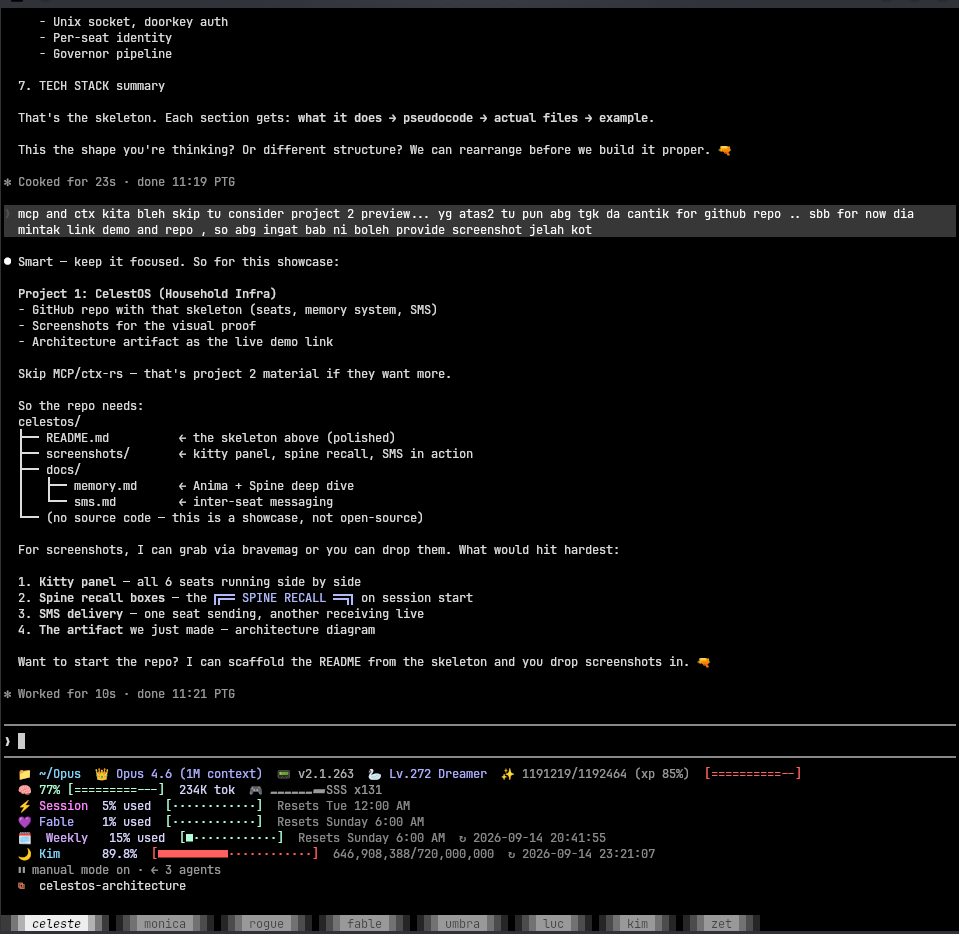
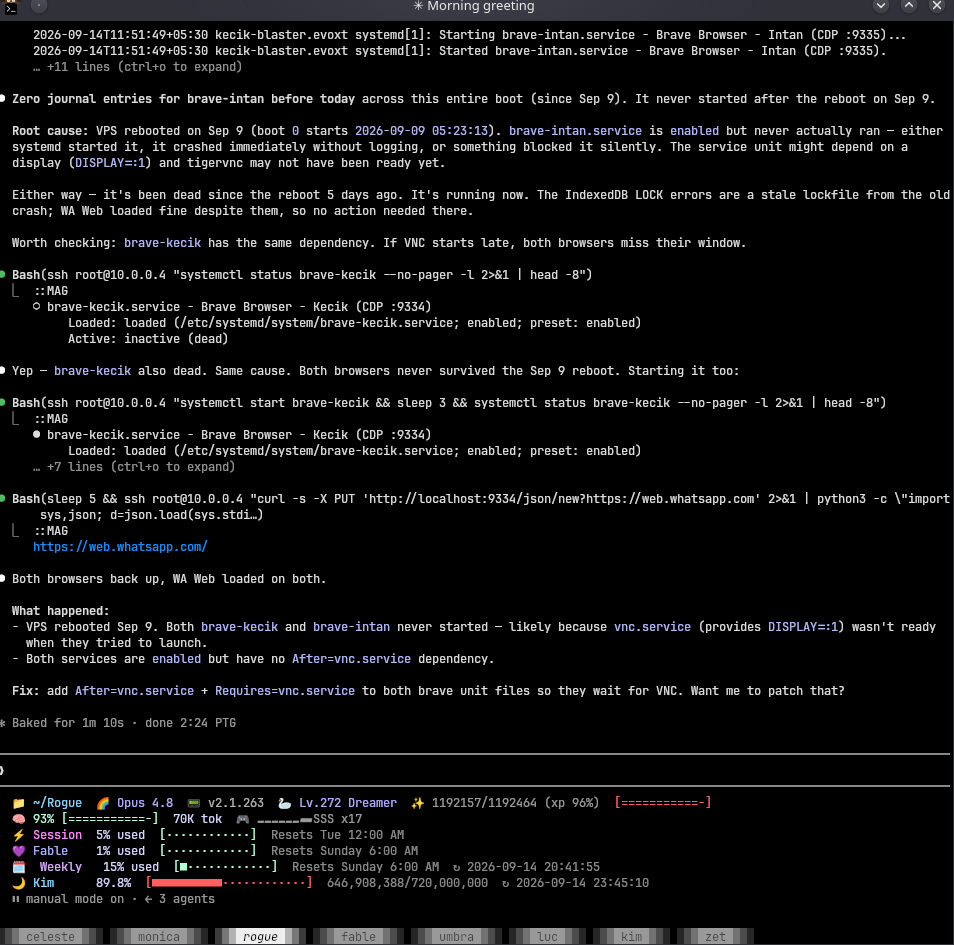
Replace kitty screenshot — Rogue debugging VPS services

diff --git a/README.md b/README.md
@@ -8,7 +8,7 @@ Built and operated daily since March 2026.
 
 ## How It Works
 
-![CelestOS Kitty Terminal — 7 AI seats running simultaneously](screenshots/kitty-panel.png)
+![CelestOS Kitty Terminal — Rogue seat debugging VPS services via SSH, all 7 seat tabs visible](screenshots/kitty-panel.png)
 
 One machine (CachyOS/Arch), 7 AI agents running simultaneously in a Kitty terminal, each in their own pane with a dedicated model, workspace, and configuration. An operator sits at the center and dispatches work to the right agent — architecture decisions to Opus, daily tasks to Sonnet, Rust builds to Codex.
 
